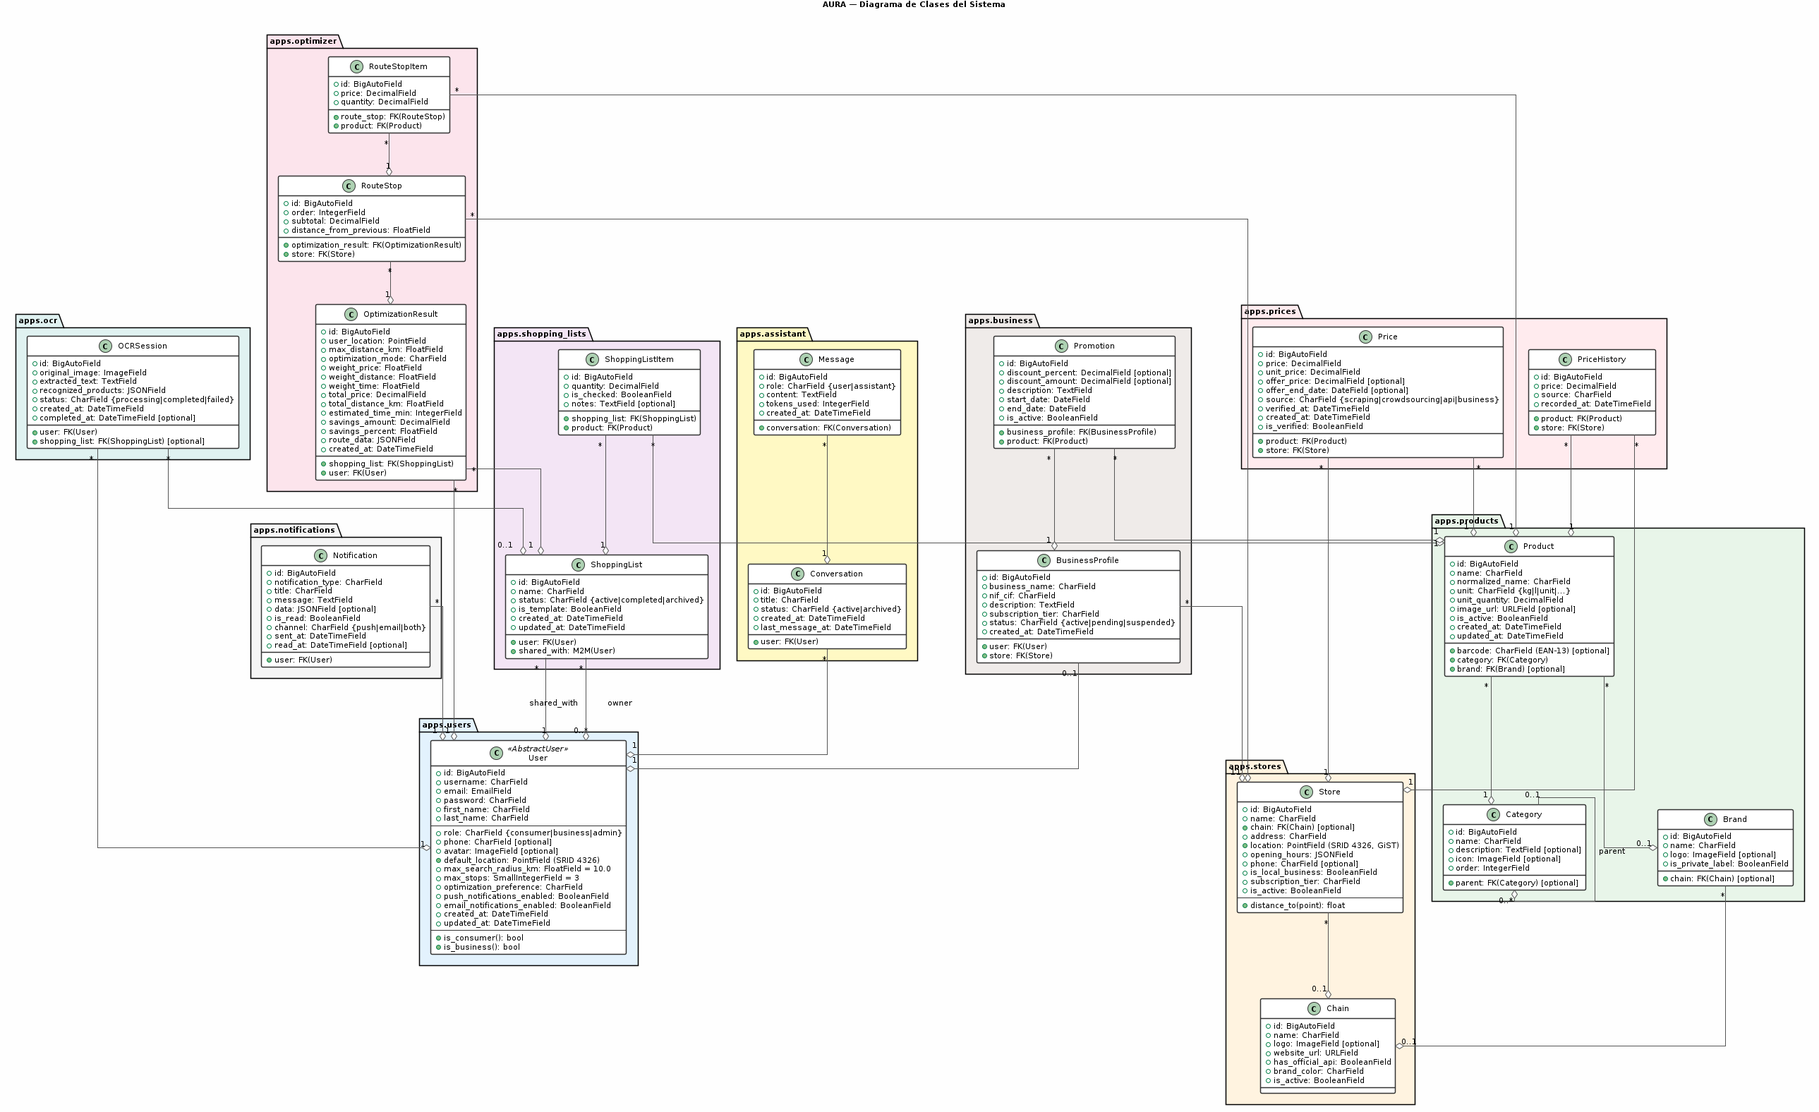
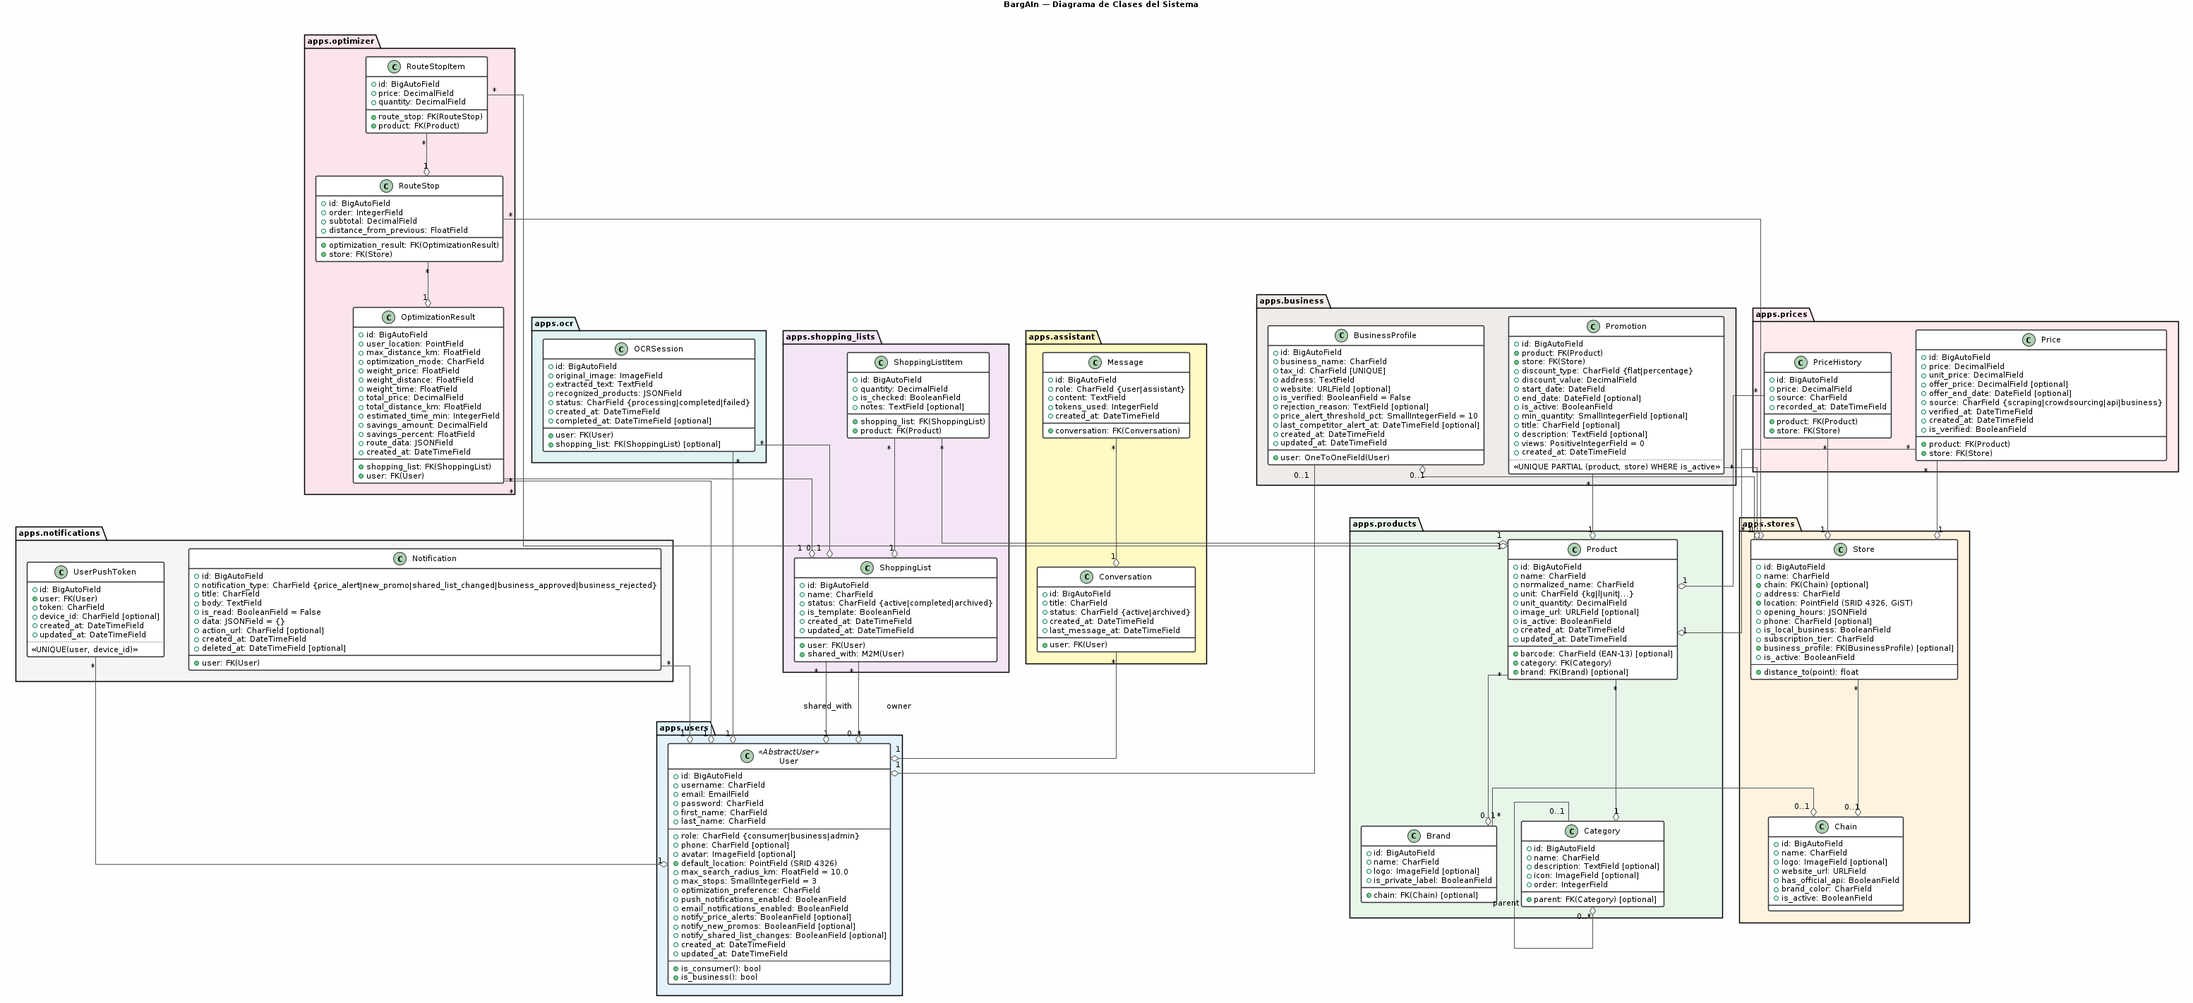
fix(phase-2): correcciones UAT — seguridad, Swagger y notificaciones
- Añade validación de ownership en BusinessPriceSerializer (ERR-006)
- Añade @extend_schema a acciones custom: approve, reject, deactivate, read, read_all, unread_count, favorite
- Añade acciones read_all y unread_count a NotificationViewSet
- Añade campo role a UserRegistrationSerializer y campos notify_* a UserProfileSerializer
- Añade blank=True a Notification.data para permitir {} en admin
- Crea admin para Notification y UserPushToken
- Actualiza diagramas de clases y ER (F2 completa)
- Actualiza memoria 08 con URLs correctas del portal business
- Completa UAT Phase 2 (11/11 tests pasados)

Changed region(s): [[0.0, 0.031, 1.0, 1.0], [0.4655, 0.0, 0.5275, 0.031]]

diff --git a/backend/apps/notifications/views.py b/backend/apps/notifications/views.py
@@ -2,6 +2,8 @@
 
 import structlog
 from django.utils import timezone
+from drf_spectacular.utils import OpenApiResponse, extend_schema, inline_serializer
+from rest_framework import serializers as drf_serializers
 from rest_framework import viewsets
 from rest_framework.decorators import action
 from rest_framework.generics import CreateAPIView
@@ -20,14 +22,16 @@ class NotificationViewSet(viewsets.ModelViewSet):
     """
     ViewSet para el inbox de notificaciones del usuario.
 
-    - list: GET /api/v1/notifications/ — notificaciones no borradas del usuario actual
-    - read: PATCH /api/v1/notifications/{id}/read/ — marca como leída
-    - destroy: DELETE /api/v1/notifications/{id}/ — soft delete (deleted_at = now())
+    - list:         GET  /api/v1/notifications/
+    - read:         PATCH /api/v1/notifications/{id}/read/
+    - read_all:     POST /api/v1/notifications/read-all/
+    - unread_count: GET  /api/v1/notifications/unread-count/
+    - destroy:      DELETE /api/v1/notifications/{id}/  (soft delete)
     """
 
     serializer_class = NotificationSerializer
     permission_classes = [IsAuthenticated]
-    http_method_names = ["get", "patch", "delete", "head", "options"]
+    http_method_names = ["get", "post", "patch", "delete", "head", "options"]
 
     def get_queryset(self):
         """Devuelve notificaciones no eliminadas del usuario actual."""
@@ -36,6 +40,11 @@ class NotificationViewSet(viewsets.ModelViewSet):
             deleted_at__isnull=True,
         )
 
+    @extend_schema(
+        request=None,
+        responses={200: NotificationSerializer},
+        description="Marca una notificación concreta como leída.",
+    )
     @action(detail=True, methods=["patch"], url_path="read")
     def read(self, request, pk=None):
         """PATCH /api/v1/notifications/{id}/read/ — marca la notificación como leída."""
@@ -44,6 +53,27 @@ class NotificationViewSet(viewsets.ModelViewSet):
         notification.save(update_fields=["is_read"])
         serializer = self.get_serializer(notification)
         return success_response(serializer.data)
+
+    @extend_schema(
+        request=None,
+        responses={200: inline_serializer("ReadAllResponse", fields={"marked_read": drf_serializers.IntegerField()})},
+        description="Marca todas las notificaciones no leídas del usuario como leídas. Devuelve el número de notificaciones actualizadas.",
+    )
+    @action(detail=False, methods=["post"], url_path="read-all")
+    def read_all(self, request):
+        """POST /api/v1/notifications/read-all/ — marca todas las notificaciones como leídas."""
+        updated = self.get_queryset().filter(is_read=False).update(is_read=True)
+        return success_response({"marked_read": updated})
+
+    @extend_schema(
+        responses={200: inline_serializer("UnreadCountResponse", fields={"count": drf_serializers.IntegerField()})},
+        description="Devuelve el número de notificaciones no leídas. Usar para el badge de la app.",
+    )
+    @action(detail=False, methods=["get"], url_path="unread-count")
+    def unread_count(self, request):
+        """GET /api/v1/notifications/unread-count/ — contador de notificaciones no leídas."""
+        count = self.get_queryset().filter(is_read=False).count()
+        return success_response({"count": count})
 
     def destroy(self, request, *args, **kwargs):
         """DELETE soft: establece deleted_at en lugar de borrar el registro."""

diff --git a/backend/apps/business/views.py b/backend/apps/business/views.py
@@ -2,6 +2,8 @@
 
 import structlog
 from django.db import IntegrityError, transaction
+from drf_spectacular.utils import OpenApiResponse, extend_schema, inline_serializer
+from rest_framework import serializers as drf_serializers
 from rest_framework import status, viewsets
 from rest_framework.decorators import action
 from rest_framework.permissions import IsAdminUser, IsAuthenticated
@@ -67,6 +69,11 @@ class BusinessProfileViewSet(viewsets.ModelViewSet):
         serializer.save(user=request.user)
         return Response(serializer.data, status=status.HTTP_201_CREATED)
 
+    @extend_schema(
+        request=None,
+        responses={200: inline_serializer("ApproveResponse", fields={"id": drf_serializers.IntegerField(), "is_verified": drf_serializers.BooleanField()})},
+        description="Aprueba un BusinessProfile pendiente. Solo admins. Envía email de notificación al negocio.",
+    )
     @action(detail=True, methods=["post"], url_path="approve")
     def approve(self, request, pk=None):
         """Aprueba un BusinessProfile (solo admin)."""
@@ -81,6 +88,11 @@ class BusinessProfileViewSet(viewsets.ModelViewSet):
         logger.info("business_profile_approved", profile_id=profile.id)
         return success_response({"id": profile.id, "is_verified": True})
 
+    @extend_schema(
+        request=inline_serializer("RejectRequest", fields={"reason": drf_serializers.CharField(required=False, default="")}),
+        responses={200: inline_serializer("RejectResponse", fields={"id": drf_serializers.IntegerField(), "is_verified": drf_serializers.BooleanField(), "rejection_reason": drf_serializers.CharField()})},
+        description="Rechaza un BusinessProfile con motivo opcional. Solo admins. Envía email de notificación al negocio.",
+    )
     @action(detail=True, methods=["post"], url_path="reject")
     def reject(self, request, pk=None):
         """Rechaza un BusinessProfile con motivo (solo admin)."""
@@ -132,6 +144,11 @@ class PromotionViewSet(viewsets.ModelViewSet):
             raise PromotionConflictError()
         return Response(serializer.data, status=status.HTTP_201_CREATED)
 
+    @extend_schema(
+        request=None,
+        responses={200: inline_serializer("DeactivateResponse", fields={"id": drf_serializers.IntegerField(), "is_active": drf_serializers.BooleanField()})},
+        description="Desactiva una promoción activa. Solo el negocio propietario.",
+    )
     @action(detail=True, methods=["post"], url_path="deactivate")
     def deactivate(self, request, pk=None):
         """Desactiva una promoción activa."""

diff --git a/backend/tests/integration/test_business_prices.py b/backend/tests/integration/test_business_prices.py
@@ -47,6 +47,36 @@ class TestBusinessPrices:
 
         assert response.status_code == 403
 
+    def test_cannot_post_price_for_other_business_store(
+        self, api_client, verified_business_user, product
+    ):
+        """Un negocio verificado no puede crear precios para tiendas de otro negocio."""
+        from django.contrib.gis.geos import Point
+
+        from apps.business.models import BusinessProfile
+        from apps.stores.models import Store
+        from apps.users.models import User
+
+        other_user = User.objects.create_user(
+            username="other_biz", email="other@test.com", password="pass1234", role=User.Role.BUSINESS
+        )
+        other_profile = BusinessProfile.objects.create(
+            user=other_user, business_name="Otro Negocio", tax_id="Z99887766", address="Otra Calle", is_verified=True
+        )
+        other_store = Store.objects.create(
+            name="Tienda Ajena",
+            address="Calle Ajena 1",
+            location=Point(-5.98, 37.39, srid=4326),
+            business_profile=other_profile,
+        )
+        api_client.force_authenticate(user=verified_business_user)
+        response = api_client.post(
+            "/api/v1/business/prices/",
+            data={"product": product.id, "store": other_store.id, "price": "1.00"},
+            format="json",
+        )
+        assert response.status_code == 400
+
     def test_business_price_is_stale_never_true(
         self, api_client, verified_business_user, business_store, product
     ):

diff --git a/backend/apps/users/serializers.py b/backend/apps/users/serializers.py
@@ -15,6 +15,12 @@ class UserRegistrationSerializer(serializers.ModelSerializer):
 
     password = serializers.CharField(write_only=True, validators=[validate_password])
     password_confirm = serializers.CharField(write_only=True)
+    role = serializers.ChoiceField(
+        choices=["consumer", "business"],
+        default="consumer",
+        required=False,
+        help_text="Rol del usuario: 'consumer' (por defecto) o 'business' (PYME).",
+    )
 
     class Meta:
         model = User
@@ -25,6 +31,7 @@ class UserRegistrationSerializer(serializers.ModelSerializer):
             "password_confirm",
             "first_name",
             "last_name",
+            "role",
         ]
 
     def validate_email(self, value: str) -> str:
@@ -70,6 +77,9 @@ class UserProfileSerializer(serializers.ModelSerializer):
             "optimization_preference",
             "push_notifications_enabled",
             "email_notifications_enabled",
+            "notify_price_alerts",
+            "notify_new_promos",
+            "notify_shared_list_changes",
             "created_at",
         ]
         read_only_fields = ["id", "role", "created_at"]

diff --git a/backend/apps/stores/views.py b/backend/apps/stores/views.py
@@ -4,7 +4,8 @@ from django.contrib.gis.db.models.functions import Distance
 from django.contrib.gis.geos import Point
 from django.contrib.gis.measure import D
 from django.http import Http404
-from drf_spectacular.utils import OpenApiParameter, extend_schema
+from drf_spectacular.utils import OpenApiParameter, extend_schema, inline_serializer
+from rest_framework import serializers as drf_serializers
 from rest_framework import status, viewsets
 from rest_framework.decorators import action
 from rest_framework.permissions import IsAuthenticated
@@ -93,6 +94,11 @@ class StoreViewSet(viewsets.ReadOnlyModelViewSet):
             return StoreDetailSerializer
         return StoreListSerializer
 
+    @extend_schema(
+        request=None,
+        responses={200: inline_serializer("FavoriteResponse", fields={"is_favorite": drf_serializers.BooleanField()})},
+        description="Alterna el estado de favorito de una tienda. Devuelve `is_favorite: true` si se añadió, `false` si se eliminó.",
+    )
     @action(
         detail=True,
         methods=["post"],

diff --git a/backend/apps/business/serializers.py b/backend/apps/business/serializers.py
@@ -110,3 +110,20 @@ class BusinessPriceSerializer(serializers.ModelSerializer):
             "created_at",
         ]
         read_only_fields = ["id", "source", "is_stale", "verified_at", "created_at"]
+
+    def validate(self, attrs):
+        """Verifica que la tienda pertenece al perfil de negocio del usuario."""
+        request = self.context.get("request")
+        store = attrs.get("store")
+        if request and store:
+            from apps.business.models import BusinessProfile
+
+            try:
+                profile = BusinessProfile.objects.get(user=request.user, is_verified=True)
+                if store.business_profile != profile:
+                    raise serializers.ValidationError(
+                        {"store": "Solo puedes gestionar precios de tus propias tiendas."}
+                    )
+            except BusinessProfile.DoesNotExist:
+                raise serializers.ValidationError("Perfil de negocio verificado no encontrado.")
+        return attrs

diff --git a/backend/apps/notifications/admin.py b/backend/apps/notifications/admin.py
@@ -1,0 +1,21 @@
+"""Admin para el módulo de notificaciones de BargAIn."""
+
+from django.contrib import admin
+
+from .models import Notification, UserPushToken
+
+
+@admin.register(Notification)
+class NotificationAdmin(admin.ModelAdmin):
+    list_display = ["id", "user", "notification_type", "title", "is_read", "deleted_at", "created_at"]
+    list_filter = ["notification_type", "is_read"]
+    search_fields = ["user__username", "title", "body"]
+    raw_id_fields = ["user"]
+    readonly_fields = ["deleted_at", "created_at"]
+
+
+@admin.register(UserPushToken)
+class UserPushTokenAdmin(admin.ModelAdmin):
+    list_display = ["id", "user", "device_id", "token", "created_at"]
+    search_fields = ["user__username", "device_id", "token"]
+    raw_id_fields = ["user"]

diff --git a/backend/apps/prices/migrations/0002_alter_price_source.py b/backend/apps/prices/migrations/0002_alter_price_source.py
@@ -1,0 +1,18 @@
+# Generated by Django 5.1.15 on 2026-03-17 19:59
+
+from django.db import migrations, models
+
+
+class Migration(migrations.Migration):
+
+    dependencies = [
+        ('prices', '0001_initial'),
+    ]
+
+    operations = [
+        migrations.AlterField(
+            model_name='price',
+            name='source',
+            field=models.CharField(choices=[('scraping', 'Scraping'), ('crowdsourcing', 'Crowdsourcing'), ('api', 'API oficial'), ('business', 'Portal PYME')], default='scraping', max_length=20, verbose_name='Fuente'),
+        ),
+    ]

diff --git a/backend/apps/notifications/models.py b/backend/apps/notifications/models.py
@@ -61,7 +61,7 @@ class Notification(models.Model):
     title = models.CharField(max_length=200, verbose_name="Título")
     body = models.TextField(verbose_name="Cuerpo")
     is_read = models.BooleanField(default=False, verbose_name="Leída")
-    data = models.JSONField(default=dict, verbose_name="Datos adicionales")
+    data = models.JSONField(default=dict, blank=True, verbose_name="Datos adicionales")
     action_url = models.CharField(
         max_length=500,
         blank=True,

diff --git a/backend/apps/notifications/migrations/0002_alter_notification_data.py b/backend/apps/notifications/migrations/0002_alter_notification_data.py
@@ -1,0 +1,18 @@
+# Generated by Django 5.1.15 on 2026-03-17 21:21
+
+from django.db import migrations, models
+
+
+class Migration(migrations.Migration):
+
+    dependencies = [
+        ('notifications', '0001_initial'),
+    ]
+
+    operations = [
+        migrations.AlterField(
+            model_name='notification',
+            name='data',
+            field=models.JSONField(blank=True, default=dict, verbose_name='Datos adicionales'),
+        ),
+    ]

diff --git a/.planning/phases/02-business-notifications/02-UAT.md b/.planning/phases/02-business-notifications/02-UAT.md
@@ -1,0 +1,83 @@
+---
+status: complete
+phase: 02-business-notifications
+source: 02-01-SUMMARY.md, 02-02-SUMMARY.md
+started: 2026-03-17T00:00:00Z
+updated: 2026-03-17T22:00:00Z
+---
+
+## Current Test
+<!-- OVERWRITE each test - shows where we are -->
+
+number: 11
+name: Push Token Registration
+expected: |
+  POST /api/v1/notifications/push-token/ con {"token": "ExponentPushToken[xxxx]", "device_id": "device-001"}
+  devuelve 201 en la primera llamada.
+  Una segunda POST con el mismo device_id (upsert) devuelve 200
+  y actualiza el token sin crear un duplicado.
+awaiting: complete
+
+## Tests
+
+### 1. Cold Start Smoke Test
+expected: Kill any running backend container (`make stop`). Run `make dev`. Container starts without errors, all migrations apply (including `0001_initial` for business + notifications, `0002_store_business_profile`, `0002_user_notify_*`), and GET http://localhost:8000/api/v1/schema/ returns 200. Celery Beat log shows new scheduled tasks (`deactivate_expired_promotions`, `check_competitor_prices`).
+result: issue
+reported: "ModuleNotFoundError: No module named 'exponent_server_sdk' — celery y celery-beat crasheaban al arrancar"
+severity: blocker
+fix: "Reconstruir imagen con `docker compose -f docker-compose.dev.yml build --no-cache` — la imagen anterior no tenía el paquete instalado. Tras rebuild todos los servicios arrancan correctamente, todas las tasks se registran (apps.notifications.tasks.dispatch_push_notification, notify_new_promo_at_store, send_shared_list_notification) y celery-beat envía tareas scheduled."
+fixed: true
+
+### 2. PYME Registration
+expected: POST /api/v1/business/register/ with `{"business_name": "Mi Tienda", "tax_id": "B12345678", "address": "Calle Mayor 1"}` as a user with role=business returns 201. The BusinessProfile is created with `is_verified: false`. A second POST with the same tax_id returns 400 (unique constraint).
+result: pass
+
+### 3. Admin Verification — Approve
+expected: As admin, POST /api/v1/business/admin/verify/{id}/ returns 200 and sets `is_verified: true` on the BusinessProfile. GET /api/v1/business/profile/ as the business user now shows `is_verified: true`.
+result: pass
+
+### 4. Admin Verification — Reject
+expected: As admin, POST /api/v1/business/admin/reject/{id}/ with `{"reason": "Documentación incompleta"}` returns 200, sets `is_verified: false`, and stores the rejection reason. GET /api/v1/business/profile/ as the business user shows the rejection_reason text.
+result: pass
+
+### 5. Business Price Management
+expected: As a verified business user, POST /api/v1/business/prices/ with `{"product": <id>, "store": <id>, "price": 1.99}` returns 201 with `source: "business"`. GET /api/v1/prices/?store=<id> lists the created price. The price never becomes stale (is_stale field stays false).
+result: pass
+
+### 6. Promotion Creation and 409 Conflict
+expected: As a verified business user, POST /api/v1/business/promotions/ with a valid product+store+discount returns 201. A second POST for the same product+store (both active) returns 409. Deactivating the first (POST /api/v1/business/promotions/{id}/deactivate/) then creating again returns 201.
+result: pass
+
+### 7. Promo Price in Comparison
+expected: GET /api/v1/prices/compare/?products=<id>&location=<lat,lng> for a product that has an active promotion shows `promo_price` and `promotion` fields in the response alongside the regular `price`. Products without promotions show `promo_price: null`.
+result: pass
+
+### 8. Notification Inbox
+expected: GET /api/v1/notifications/ returns the list of the user's notifications (only non-deleted). Response includes `id`, `notification_type`, `title`, `body`, `is_read`, `action_url`, `created_at`. GET /api/v1/notifications/unread-count/ returns `{"count": N}`.
+result: pass
+
+### 9. Mark Notification as Read
+expected: POST /api/v1/notifications/{id}/read/ returns 200 and sets `is_read: true`. POST /api/v1/notifications/read-all/ marks all notifications as read. Subsequent GET /api/v1/notifications/unread-count/ returns `{"count": 0}`.
+result: pass
+
+### 10. Soft-Delete Notification
+expected: DELETE /api/v1/notifications/{id}/ returns 204. The notification no longer appears in GET /api/v1/notifications/ (filtered by `deleted_at__isnull=True`), but the DB record still exists with `deleted_at` set.
+result: pass
+
+### 11. Push Token Registration
+expected: POST /api/v1/notifications/push-token/ with `{"token": "ExponentPushToken[xxxx]", "device_id": "device-001"}` returns 201 on first call. A second POST with the same device_id (upsert) returns 200 and updates the token without creating a duplicate.
+result: pass
+
+## Summary
+
+total: 11
+passed: 9
+issues: 2
+pending: 0
+skipped: 0
+
+## Gaps
+
+- `apps/notifications/admin.py` no existía — Notification y UserPushToken no aparecían en el admin. Creado y `deleted_at`/`created_at` marcados como `readonly_fields`.
+- `Notification.data` tenía `default=dict` pero faltaba `blank=True` → campo obligatorio en el admin. Corregido + migración aplicada.
+- `BusinessPriceSerializer` no validaba ownership de tienda → seguridad bug. Corregido con `validate()` + test de regresión (ERR-006).

diff --git a/docs/memoria/08-diseno-implementacion.md b/docs/memoria/08-diseno-implementacion.md
@@ -609,14 +609,13 @@ La tienda (`Store`) se asocia al `BusinessProfile` a través de un FK nullable `
 
 | Método | Endpoint | Descripción |
 |--------|----------|-------------|
-| `POST` | `/api/v1/business/register/` | Registro de PYME (crea `BusinessProfile` en estado pendiente) |
-| `GET/PATCH` | `/api/v1/business/profile/` | Ver y editar perfil de negocio |
-| `POST` | `/api/v1/business/admin/verify/{id}/` | Aprobar perfil (admin only) |
-| `POST` | `/api/v1/business/admin/reject/{id}/` | Rechazar perfil con motivo (admin only) |
+| `POST` | `/api/v1/business/profiles/` | Registro de PYME (crea `BusinessProfile` en estado pendiente) |
+| `GET/PATCH` | `/api/v1/business/profiles/{id}/` | Ver y editar perfil de negocio |
+| `POST` | `/api/v1/business/profiles/{id}/approve/` | Aprobar perfil (admin only) |
+| `POST` | `/api/v1/business/profiles/{id}/reject/` | Rechazar perfil con motivo (admin only) |
 | `GET/POST` | `/api/v1/business/prices/` | Listar y crear/actualizar precios propios |
-| `POST` | `/api/v1/business/prices/bulk-update/` | Actualización masiva de precios (CSV) |
 | `GET/POST` | `/api/v1/business/promotions/` | Gestionar promociones activas |
-| `GET` | `/api/v1/business/stats/` | Estadísticas de visibilidad (views de promociones, comparaciones) |
+| `POST` | `/api/v1/business/promotions/{id}/deactivate/` | Desactivar una promoción activa |
 
 #### Alerta de competidor (Celery)
 
